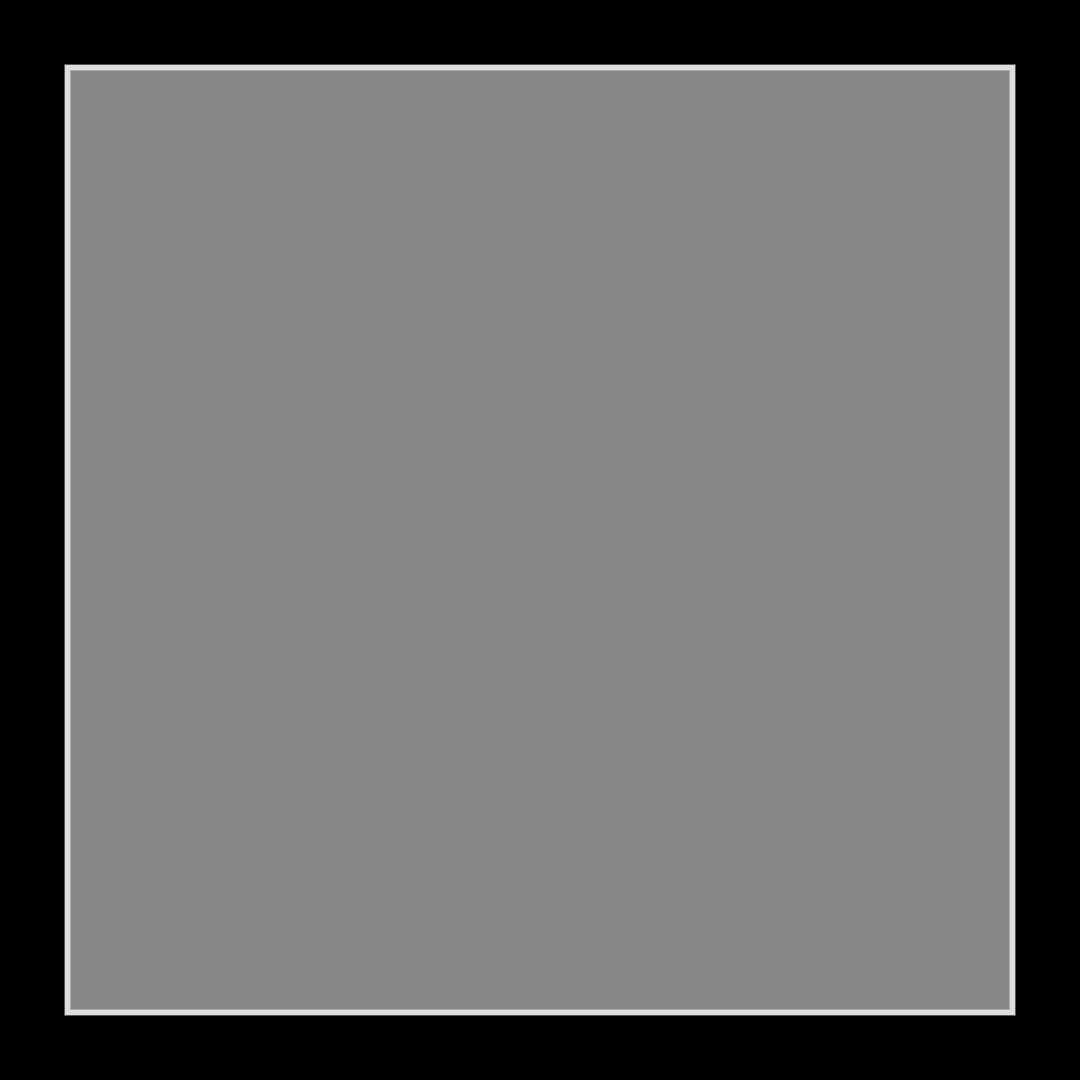
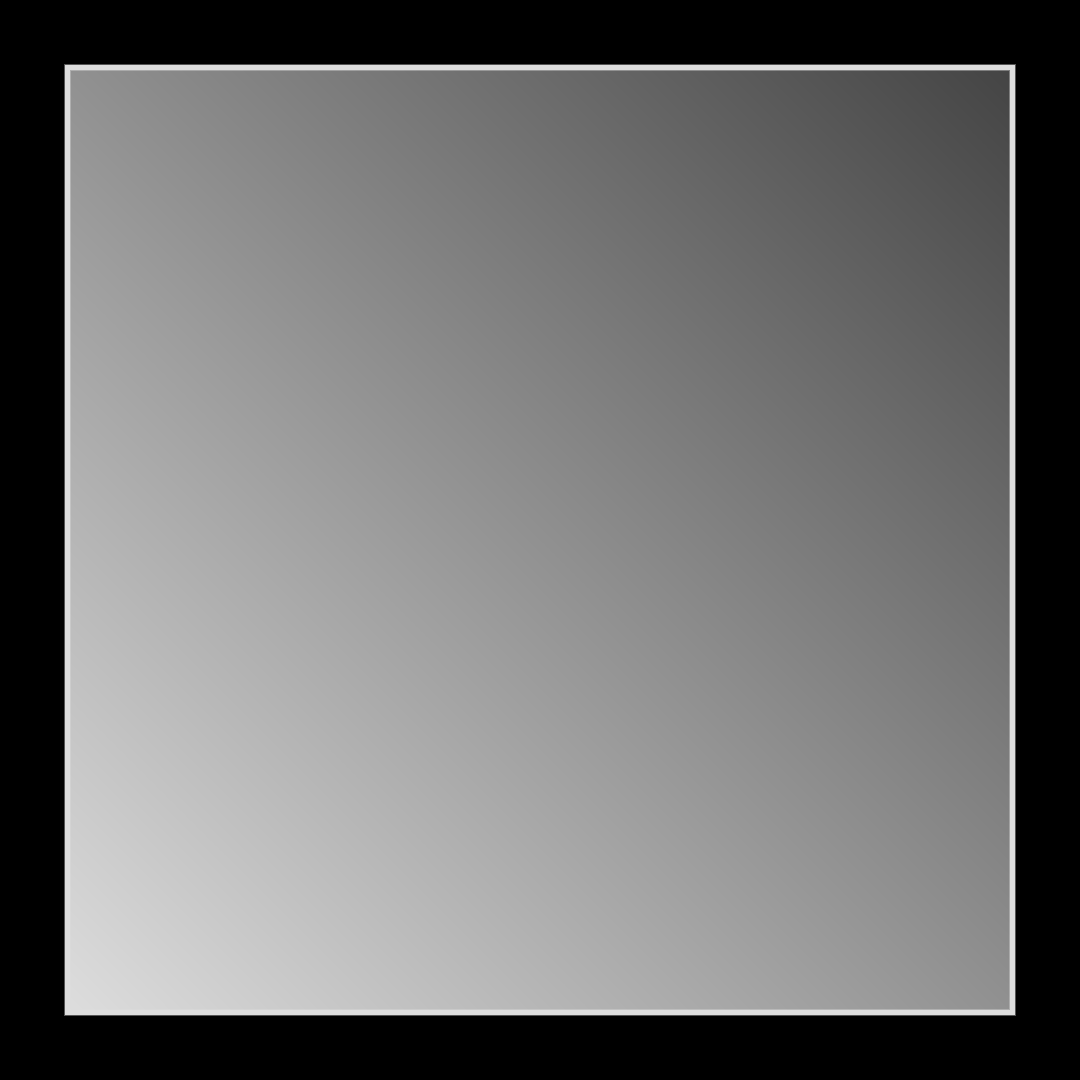
f

diff --git a/gtest.py b/gtest.py
@@ -4,5 +4,5 @@ class Test(InteractiveScene):
     def construct(self):
         s = Square()
         s.set_width(FRAME_WIDTH - 1)
-        s.set_fill(GREY, 1.0, gradient_direction=UR)
+        s.set_fill([GREY_A, GREY_D], 1.0, gradient_direction=UR)
         self.add(s)
